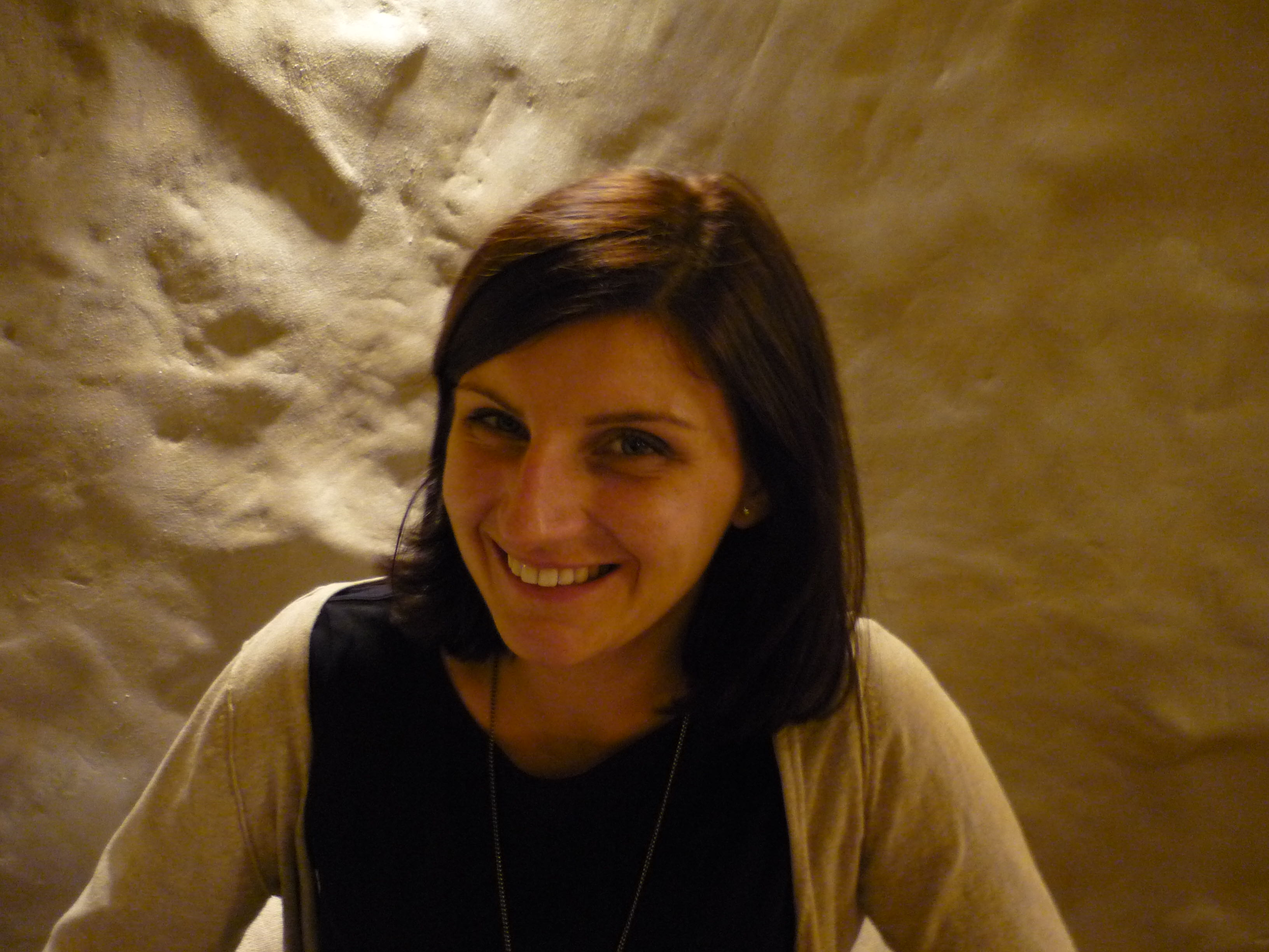
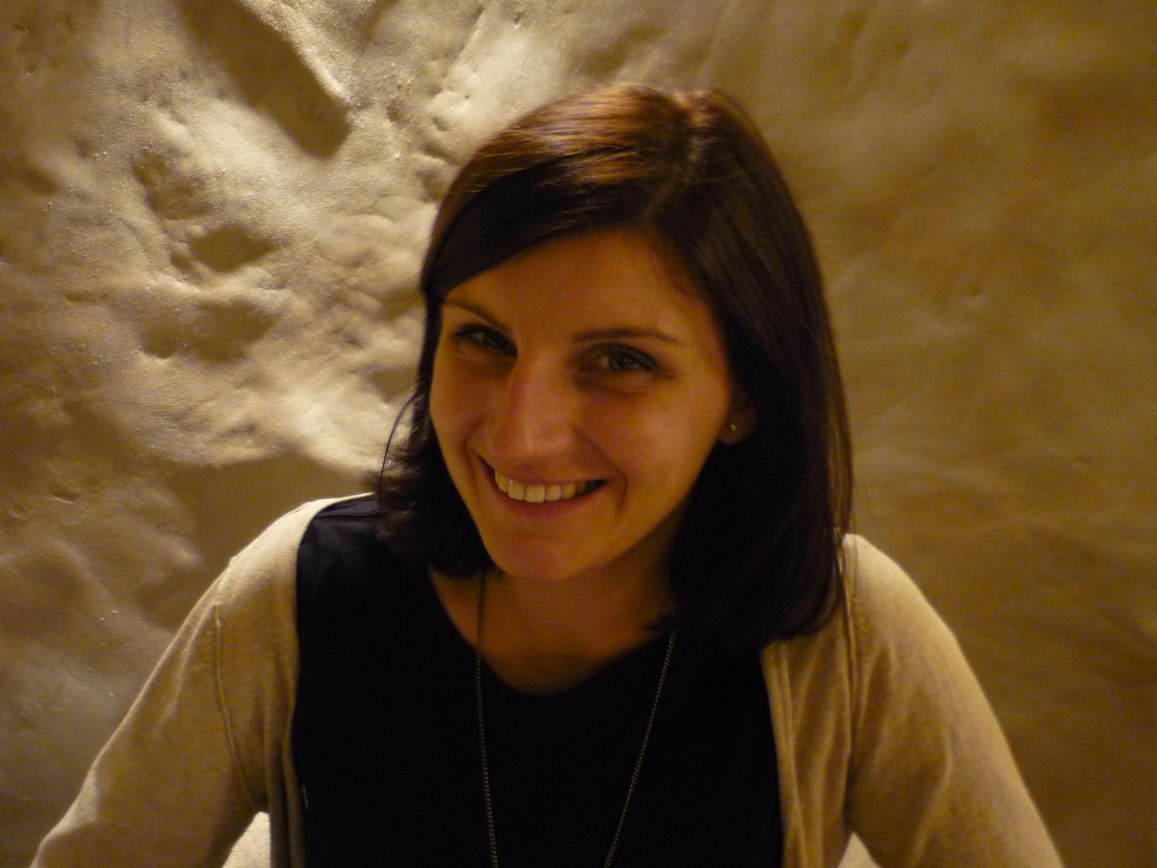
Updates

diff --git a/Martyna/tutoring.html b/Martyna/tutoring.html
@@ -12,18 +12,25 @@
         <p><a href="home.html">Home</a></p>
         <p><a href="cv.html">CV</a></p>
         <p><a href="publications.html">Publications</a></p>
-        <p><a href="../index.html">Visit Nick</a></p>
         <p><a href="tutoring.html">Tutoring</a></p>
+        <p><a href="../index.html">Visit Nick</a></p>
       </div>
-      <center> <img src="Martyna.jpg" alt="Me" width="500"></center>
-      <p class="sub_title"> <br>
-        I can tutor any high school math class and the quantitative
-        section of GRE.<br>
-      </p>
-      <p class="content"> Currently working in the East Lansing/Okemos
-        area of Michigan. Send me an <a
-          href="mailto:%20mwsedlmayr@gmail.com">email</a> if you are
-        interested!<br>
+      <div align="right"> <img src="watermelon.jpg" alt="Me"
+          style="position:relative; right:80px; top:40px;" width="200"></div>
+      <br>
+      <br>
+      <p class="content"><br>
+        <br>
+        I'm currently a freelance tutor of maths and physics in East
+        Lansing/Okemos area of Michigan. I tutor any high school maths
+        class (pre-algebra, algebra, geometry, trigonometry,
+        pre-calculus), including the honors class of Okemos high school,
+        as well as selected university (undergraduate and graduate)
+        maths and physics courses. I can also help you rock the
+        quantitative section of GRE and ACT, or any other math based
+        test. Feel free to send me an <a
+          href="mailto:%20mwsedlmayr@gmail.com">email</a> should you
+        have any questions. <br>
       </p>
       <hr> </div>
   </body>

diff --git a/index.html b/index.html
@@ -21,11 +21,13 @@
         <p><a href="collaborators.html">Collaborators and Links</a></p>
         <p><a href="cv.html">CV</a></p>
       </div>
-      <div id="main_title">Welcome to My Website</div>
-      <center> <img src="Nick_K.jpg" alt="Me" width="250"></center>
-      <p class="content"> I am a theoretical physicist working in the
-        area of condensed matter physics. Of particular interest to me
-        are low dimensional structures, topological and strongly
+      <div align="right"> <img src="Nick_K.jpg" alt="Me"
+          style="position:relative; right:80px; top:40px;" width="275"></div>
+      <br>
+      <br>
+      <p class="content">Welcome! I am a theoretical physicist working
+        in the area of condensed matter physics. Of particular interest
+        to me are low dimensional structures, topological and strongly
         correlated electron systems, and questions of dynamics and
         thermalization in quantum mechanics. You can find out more about
         it <a href="research_interests.html">here</a>, or by taking a
@@ -56,6 +58,10 @@
 
 
 
+
+
+
+
             Department</a><br>
         </small></p>
       <p class="sub_title">Previous positions</p>
@@ -68,6 +74,10 @@
       </p>
       <p class="content"> 2007 to 2009: <a
           href="http://qft0.physik.uni-halle.de/jber/index.htm">Institute
+
+
+
+
 
 
 

diff --git a/Martyna/publications.html b/Martyna/publications.html
@@ -12,8 +12,8 @@
         <p><a href="home.html">Home</a></p>
         <p><a href="cv.html">CV</a></p>
         <p><a href="publications.html">Publications</a></p>
-        <p><a href="../index.html">Visit Nick</a></p>
         <p><a href="tutoring.html">Tutoring</a></p>
+        <p><a href="../index.html">Visit Nick</a></p>
       </div>
       <div id="main_title">Publications</div>
       <ol class="pubs">
@@ -33,6 +33,10 @@
             href="http://dx.doi.org/10.1103/PhysRevB.89.045133"><br>
           </a><a href="https://doi.org/10.3390/microarrays3040245"> Microarrays,
 
+
+
+
+
             3, 245 (2014)</a></li>
         <li><u>M. Polok</u>, D.V. Fedorov, A. Bagrets, P. Zahn, and I.
           Mertig<a href="http://dx.doi.org/10.1103/PhysRevB.89.045133"><br>
@@ -41,10 +45,16 @@
             href="http://dx.doi.org/10.1103/PhysRevB.89.045133"><br>
           </a><a href="https://doi.org/10.1103/physrevb.83.245426"> Physical
 
+
+
+
+
             Review B, 83, 245426 (2011) <br>
           </a></li>
       </ol>
       <p class="content"><a href="http://orcid.org/0000-0002-9291-121X">ORCID</a></p>
-      <hr> </div>
+      <hr>
+      <div id="footer"> This page was written on 14/05/2017</div>
+    </div>
   </body>
 </html>

diff --git a/Martyna/home.html b/Martyna/home.html
@@ -12,14 +12,19 @@
         <p><a href="home.html">Home</a></p>
         <p><a href="cv.html">CV</a></p>
         <p><a href="publications.html">Publications</a></p>
-        <p><a href="../index.html">Visit Nick</a></p>
         <p><a href="tutoring.html">Tutoring</a></p>
+        <p><a href="../index.html">Visit Nick</a></p>
       </div>
-      <center> <img src="Martyna.jpg" alt="Me" width="500"></center>
+      <div align="right"> <img src="Martyna.jpg" alt="Me"
+          style="position:relative; right:80px; top:40px;" width="300"></div>
+      <br>
+      <br>
       <p class="content"> <br>
         I am a physics graduate with a lot of interdisciplinary
         experience, including biotechnology and mechanical engineering.<br>
       </p>
-      <hr> </div>
+      <hr>
+      <div id="footer"> This page was written on 14/05/2017</div>
+    </div>
   </body>
 </html>

diff --git a/Martyna/cv.html b/Martyna/cv.html
@@ -12,18 +12,11 @@
         <p><a href="home.html">Home</a></p>
         <p><a href="cv.html">CV</a></p>
         <p><a href="publications.html">Publications</a></p>
-        <p><a
-href="file:///Users/nick/Documents/Website/nsedlmayr.github.io/index.html">Visit
-
-
-
-
-
-            Nick</a></p>
         <p><a href="tutoring.html">Tutoring</a></p>
+        <p><a href="../index.html">Visit Nick</a></p>
       </div>
       <center> <object data="CV_Online_M_Sedlmayr.pdf"
-          type="application/pdf" height="81%" width="81%">
+          type="application/pdf" width="81%" height="81%">
           <p><b>Example fallback content</b>: This browser does not
             support PDFs. Please download the PDF to view it: <a
               href="CV_Online_M_Sedlmayr.pdf">Download PDF</a>.</p>

diff --git a/styles.css b/styles.css
@@ -29,7 +29,7 @@ float:left;
 border-style:none;
 border-width:2px;
 border-color:Blue;
-margin-top:30px;
+margin-top:5px;
 font-family: arial;
 text-align:right;
 font-size: 130%;
